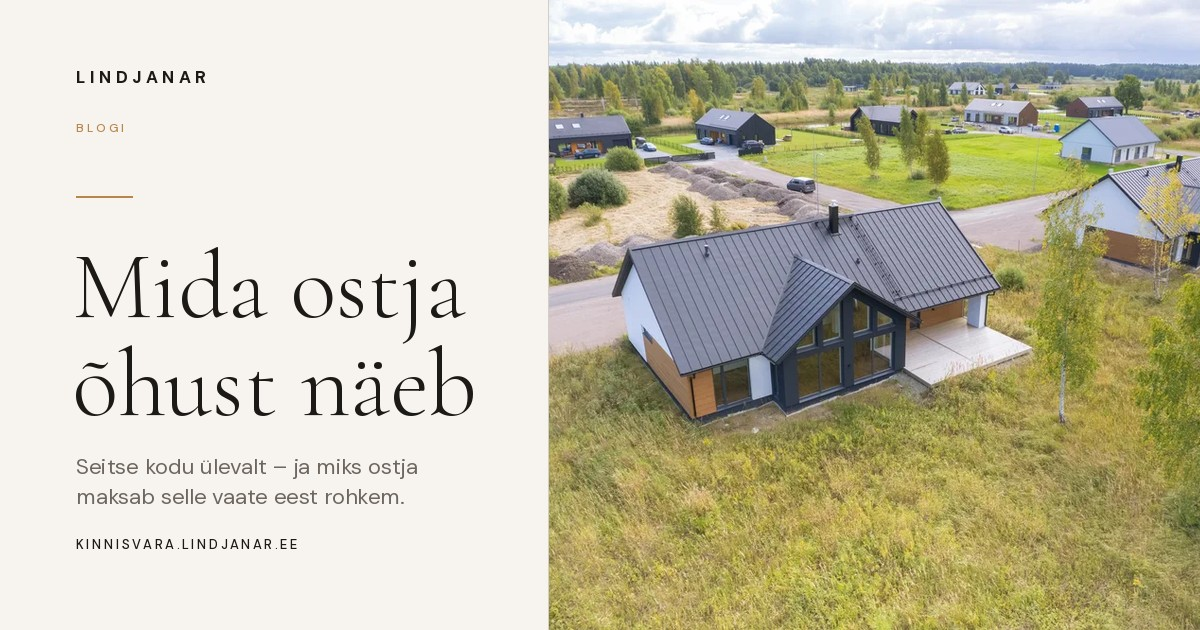
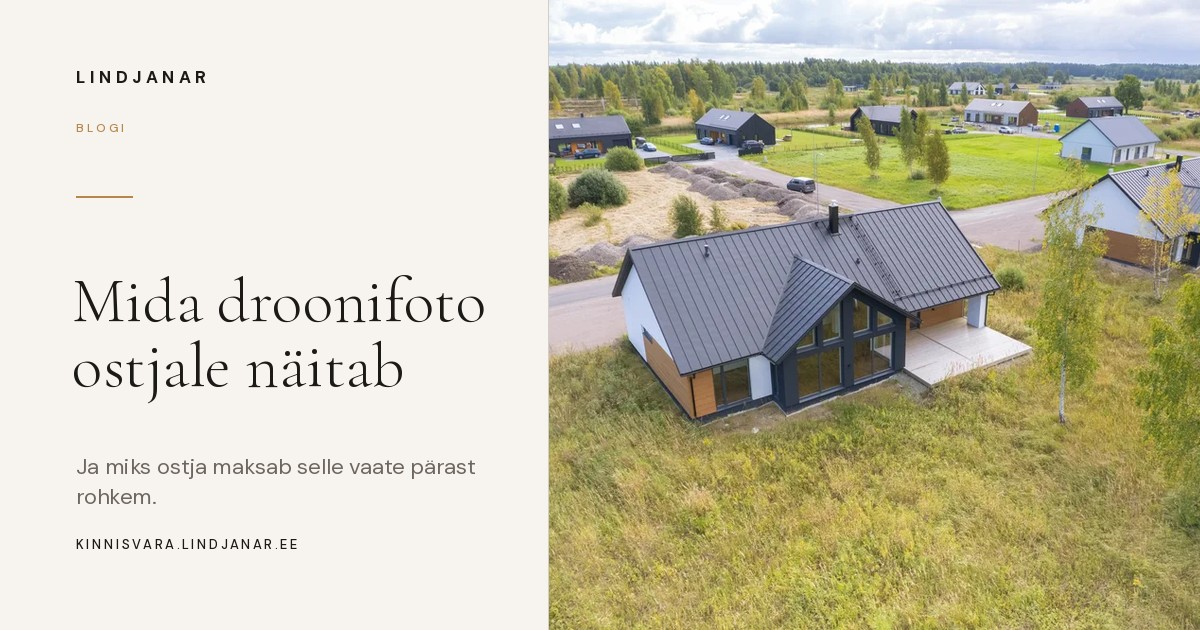
Share card for the drone post: 'Mida droonifoto ostjale näitab'

Changed region(s): [[0.0617, 0.3921, 0.4008, 0.6635], [0.0617, 0.7238, 0.4008, 0.754], [0.0617, 0.7841, 0.3392, 0.8143]]

diff --git a/tools/og-card.py b/tools/og-card.py
@@ -156,9 +156,9 @@ T = 'assets/tood/'
 # Blog share cards. Keep titles to 2-3 short lines and subtext to one
 # sentence – the generator warns on stderr if either overflows the panel.
 BLOG = {
- 'blogi-ohust':         (['Mida ostja', 'õhust näeb'], 'BLOGI',
+ 'blogi-ohust':         (['Mida droonifoto', 'ostjale näitab'], 'BLOGI',
                          [B+'droon-maja-loodus-01.webp'],
-                         'Seitse kodu ülevalt – ja miks ostja maksab selle vaate eest rohkem.'),
+                         'Ja miks ostja maksab selle vaate pärast rohkem.'),
  'blogi-vead':          (['Levinumad vead', 'kodu', 'pildistamisel'], 'BLOGI',
                          [B+'paar-2-parast.webp'],
                          'Vastuvalgus, uksest tehtud kaader ja kaldu seinad.'),
